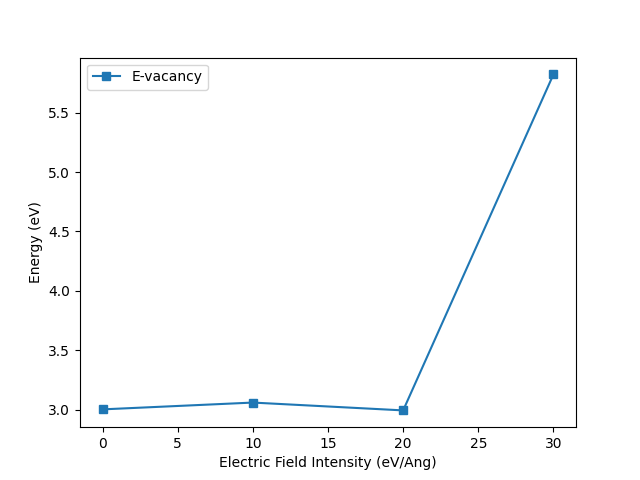
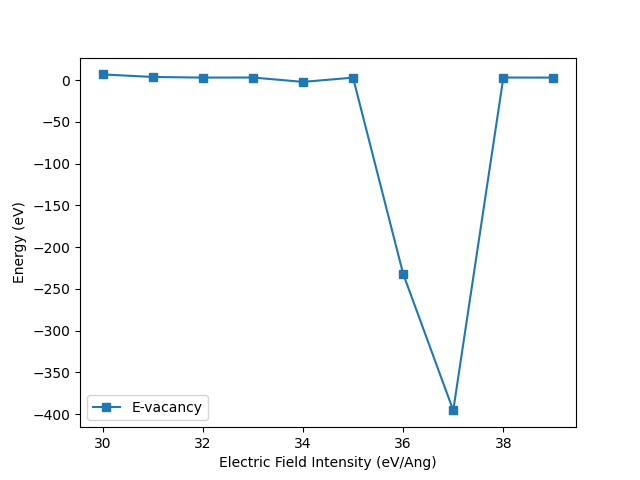
fix bugs

diff --git a/reax_ff_sim/ceo2_slab_reaxff/energy_vacancy.py b/reax_ff_sim/ceo2_slab_reaxff/energy_vacancy.py
@@ -13,13 +13,14 @@ if not os.path.exists(plot_directory):
 
 # Define the path to the shell script
 file_path = 'run-lammps.sh'
+file_path2 = 'run-lammps_vacancy.sh'
 
 conv = 0.0433641 # kcal/mol to eV
 D_e_O2 = 4.876615876761253 # in eV Dissociation energy of O2 molecule fromm running oxygen_dis_energy.py
 
 data_per_e_field = {}
 
-e_intensities = np.arange(0, 40, 10)
+e_intensities = np.arange(30, 40, 1)
 E_slab_values = []
 E_vacancy_values = []
 
@@ -27,18 +28,18 @@ for e_intensity in e_intensities:
 
     # change the magnitude of the electric field
     # Read the content of the file
-    with open(file_path, 'r') as file:
-        lines = file.readlines()
+    with open(file_path, 'r') as file1:
+        lines1 = file1.readlines()
 
     # Modify the specific line
-    with open(file_path, 'w') as file:
-        for line in lines:
+    with open(file_path, 'w') as file1:
+        for line in lines1:
             if line.strip().startswith('variable fz'):
-                file.write(f'variable fz atom q*{e_intensity:.1f}\n')
+                file1.write(f'variable fz atom q*{e_intensity:.1f}\n')
             elif line.strip().startswith('variable efz'):
-                file.write(f'variable efz atom q*z*{e_intensity:.1f}\n')
+                file1.write(f'variable efz atom q*z*{e_intensity:.1f}\n')
             else:
-                file.write(line)
+                file1.write(line)
     
     try:
         lmp1 = lammps()
@@ -46,15 +47,18 @@ for e_intensity in e_intensities:
         E_slab = lmp1.get_thermo("pe") * conv
         E_slab_values.append(E_slab)
 
+        with open(file_path2, 'r') as file2:
+            lines2 = file2.readlines()
+
         # Modify the specific line
-        with open('run-lammps_vacancy', 'w') as file:
-            for line in lines:
+        with open(file_path2, 'w') as file2:
+            for line in lines2:
                 if line.strip().startswith('variable fz'):
-                    file.write(f'variable fz atom q*{e_intensity:.1f}\n')
+                    file2.write(f'variable fz atom q*{e_intensity:.1f}\n')
                 elif line.strip().startswith('variable efz'):
-                    file.write(f'variable efz atom q*z*{e_intensity:.1f}\n')
+                    file2.write(f'variable efz atom q*z*{e_intensity:.1f}\n')
                 else:
-                    file.write(line)
+                    file2.write(line)
 
         lmp2 = lammps()
         lmp2.file("run-lammps_vacancy.sh")
